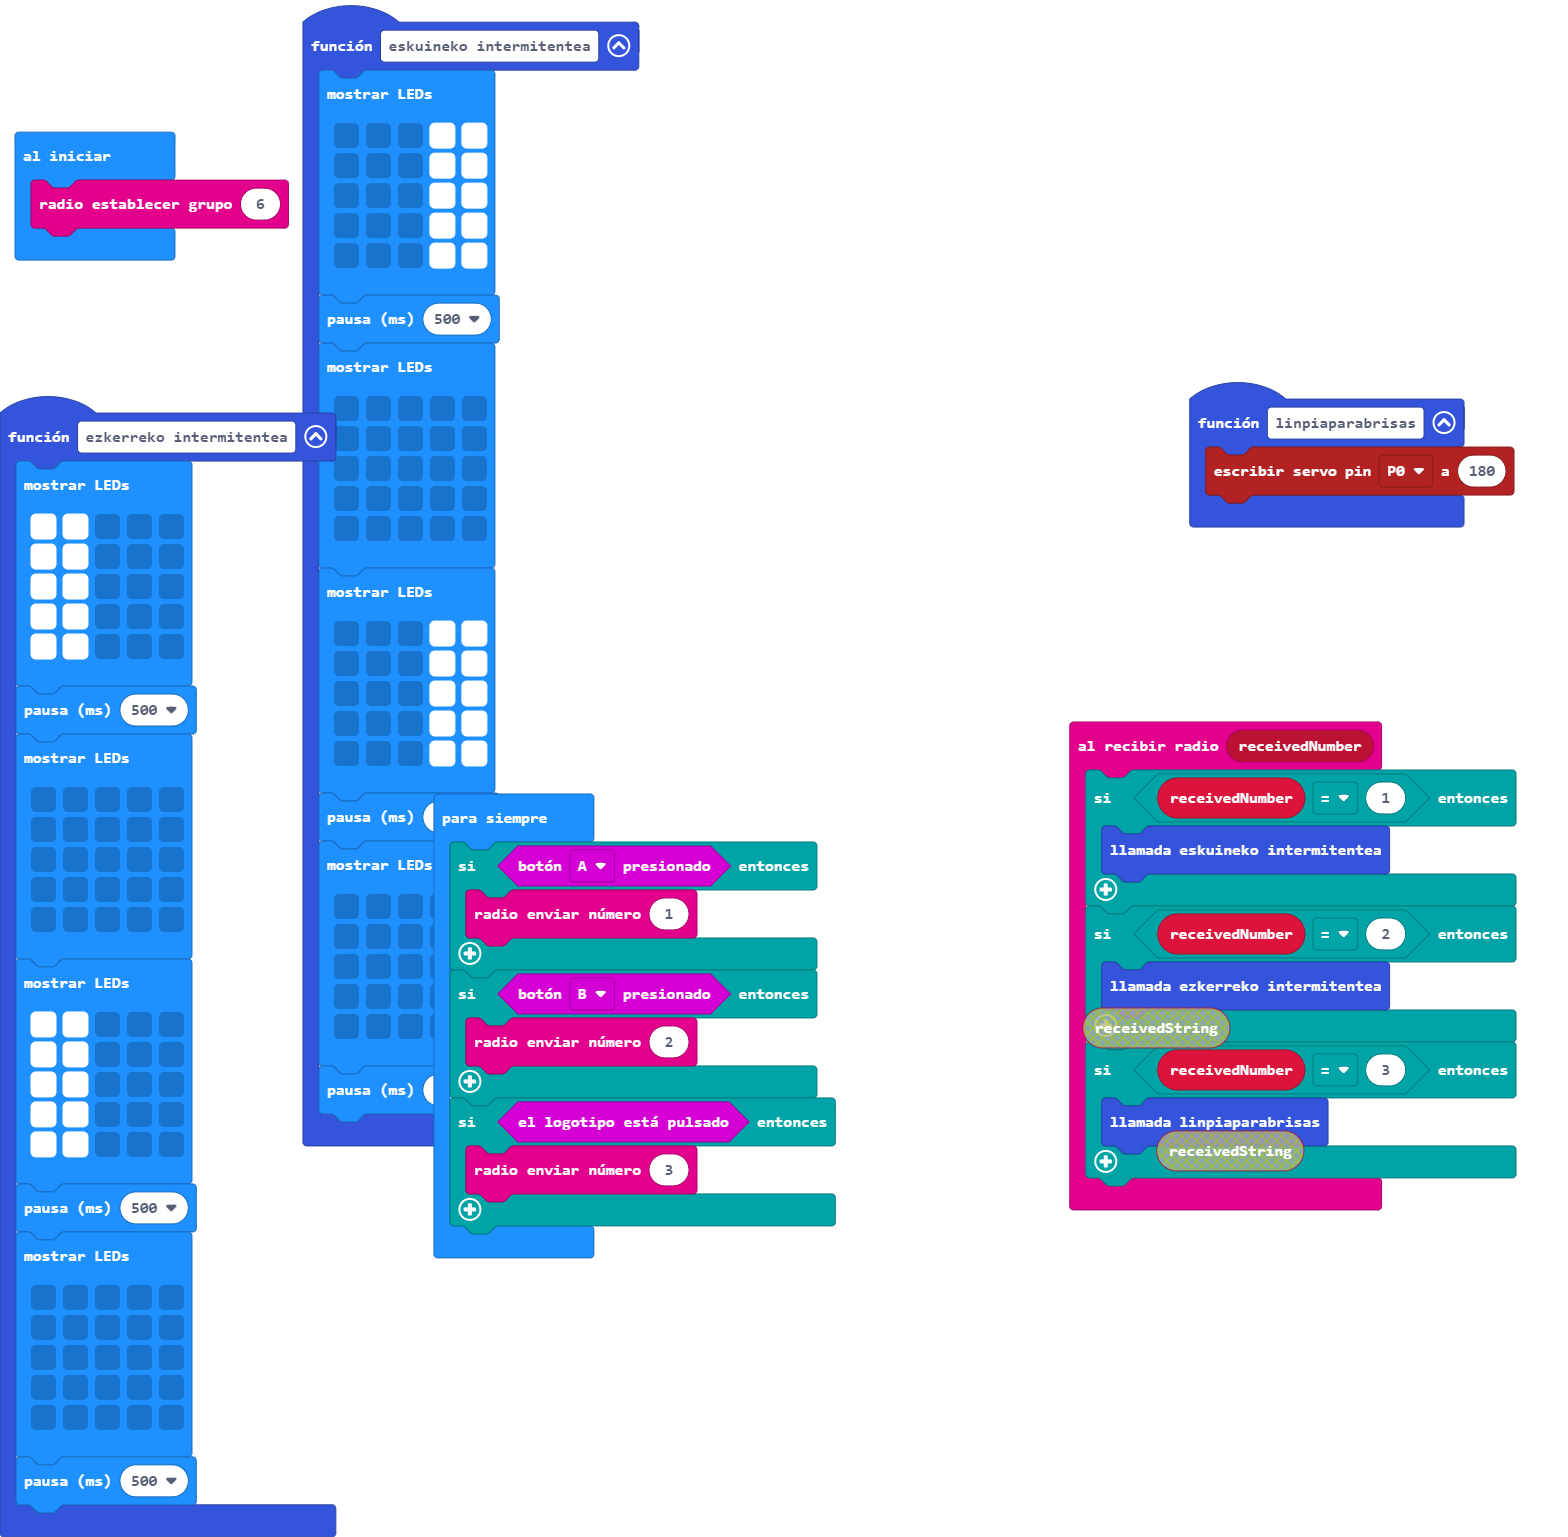
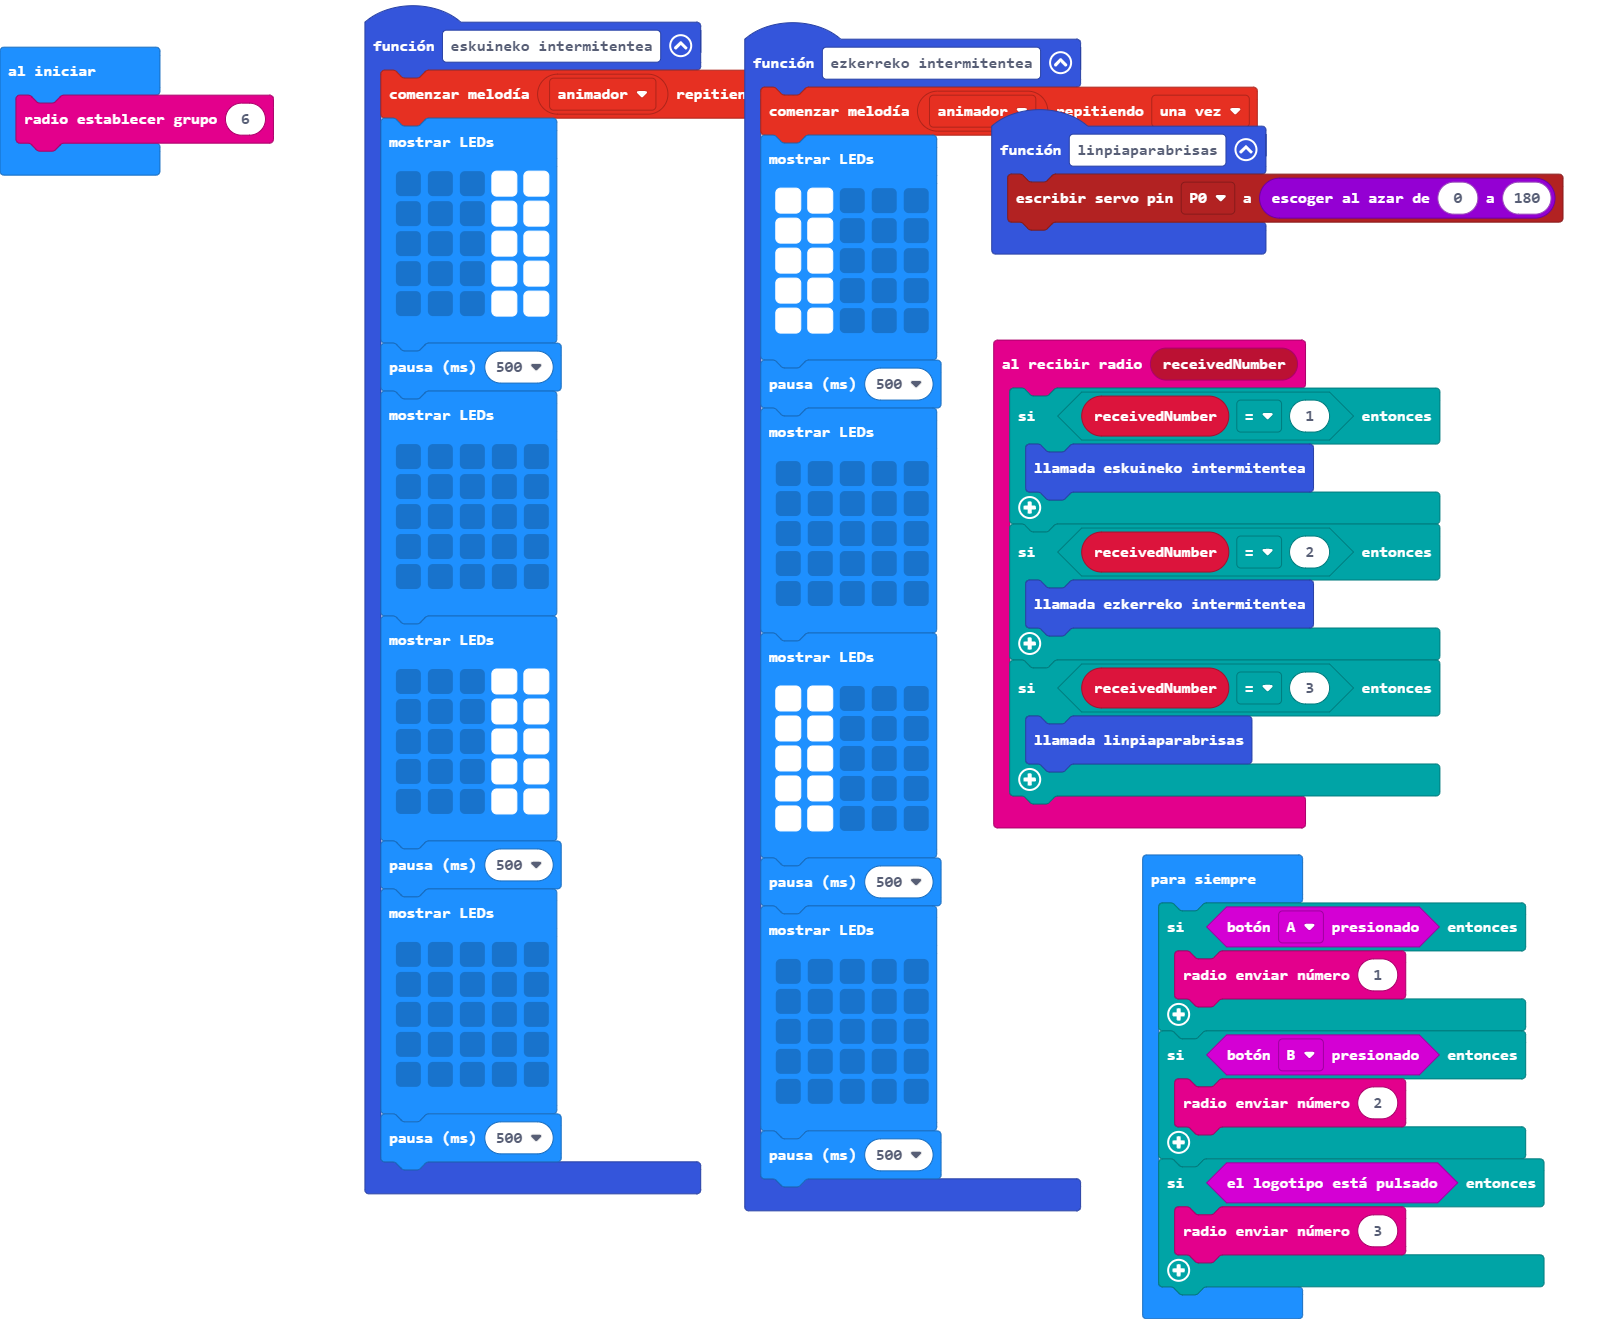
Actualizar main.blocks, main.ts

diff --git a/main.ts b/main.ts
@@ -10,6 +10,7 @@ radio.onReceivedNumber(function (receivedNumber) {
     }
 })
 function ezkerreko_intermitentea () {
+    music.startMelody(music.builtInMelody(Melodies.Entertainer), MelodyOptions.Once)
     basic.showLeds(`
         # # . . .
         # # . . .
@@ -43,9 +44,10 @@ function ezkerreko_intermitentea () {
     basic.pause(500)
 }
 function linpiaparabrisas () {
-    pins.servoWritePin(AnalogPin.P0, 180)
+    pins.servoWritePin(AnalogPin.P0, randint(0, 180))
 }
 function eskuineko_intermitentea () {
+    music.startMelody(music.builtInMelody(Melodies.Entertainer), MelodyOptions.Once)
     basic.showLeds(`
         . . . # #
         . . . # #
